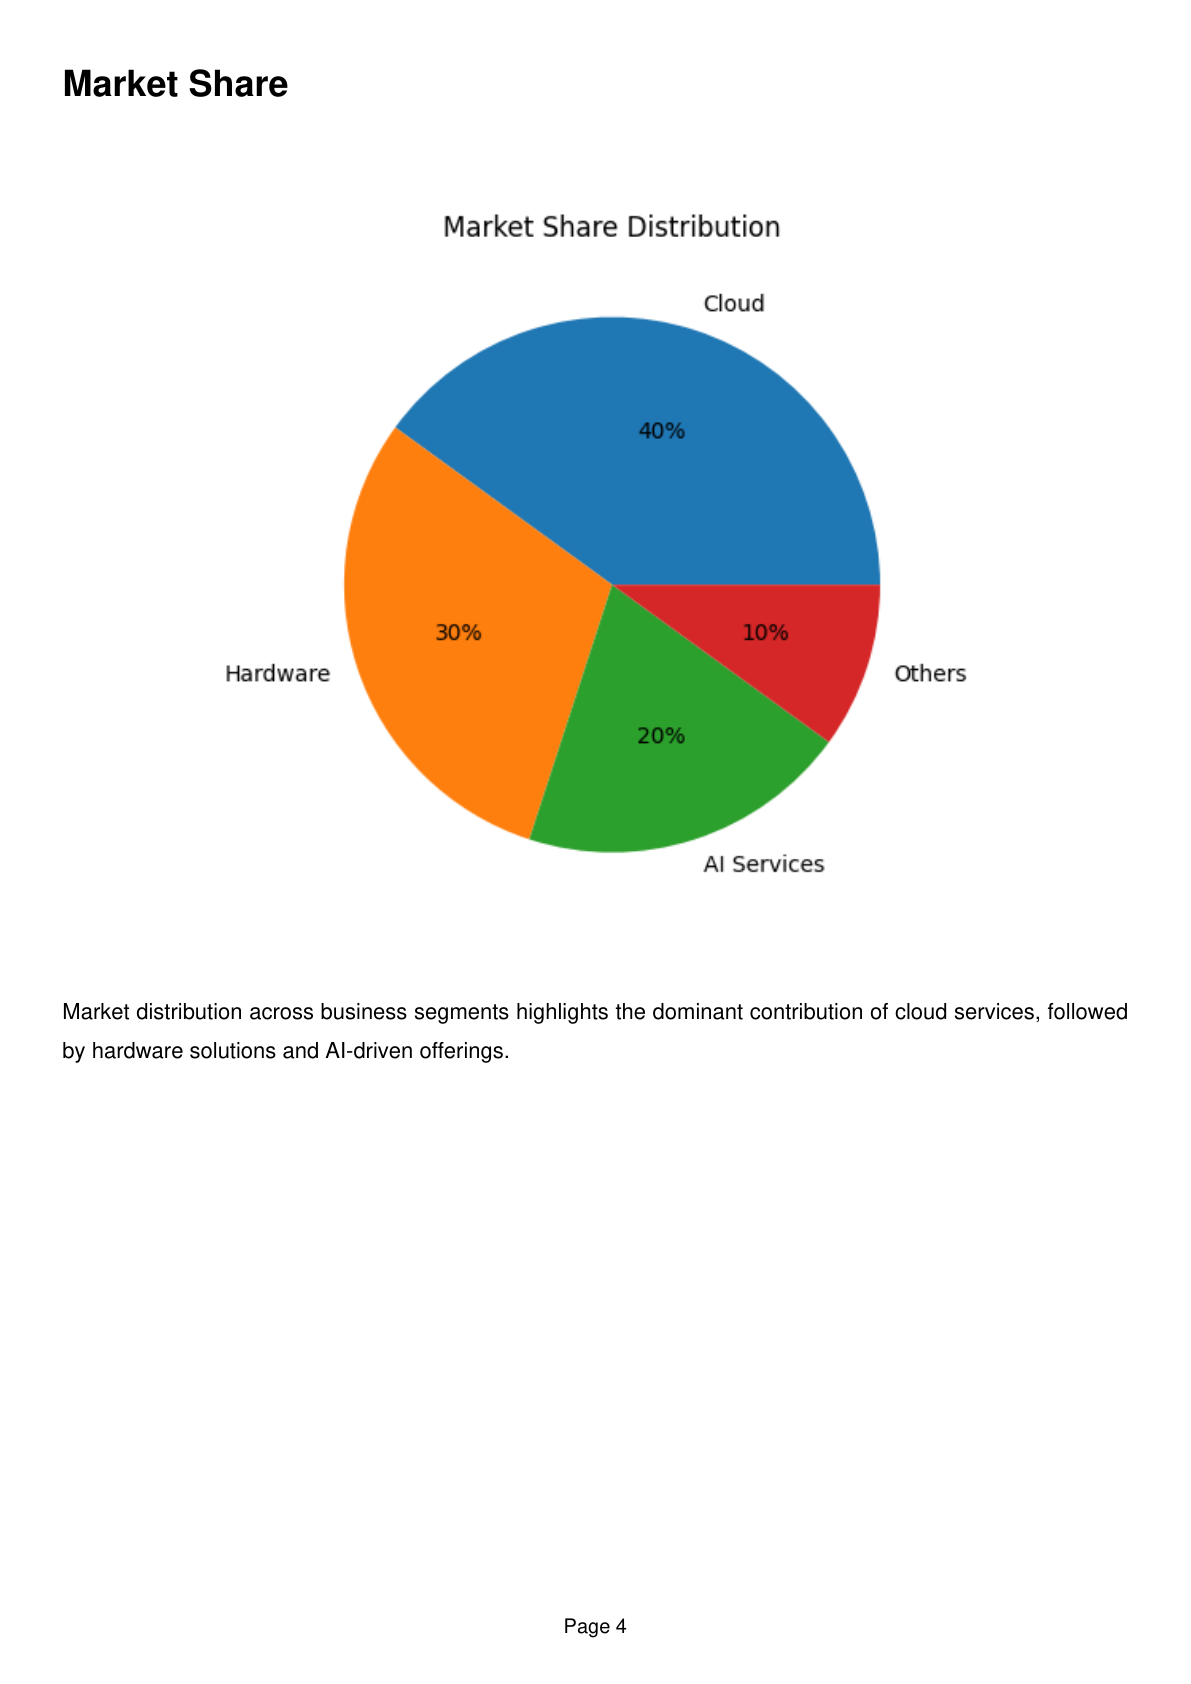
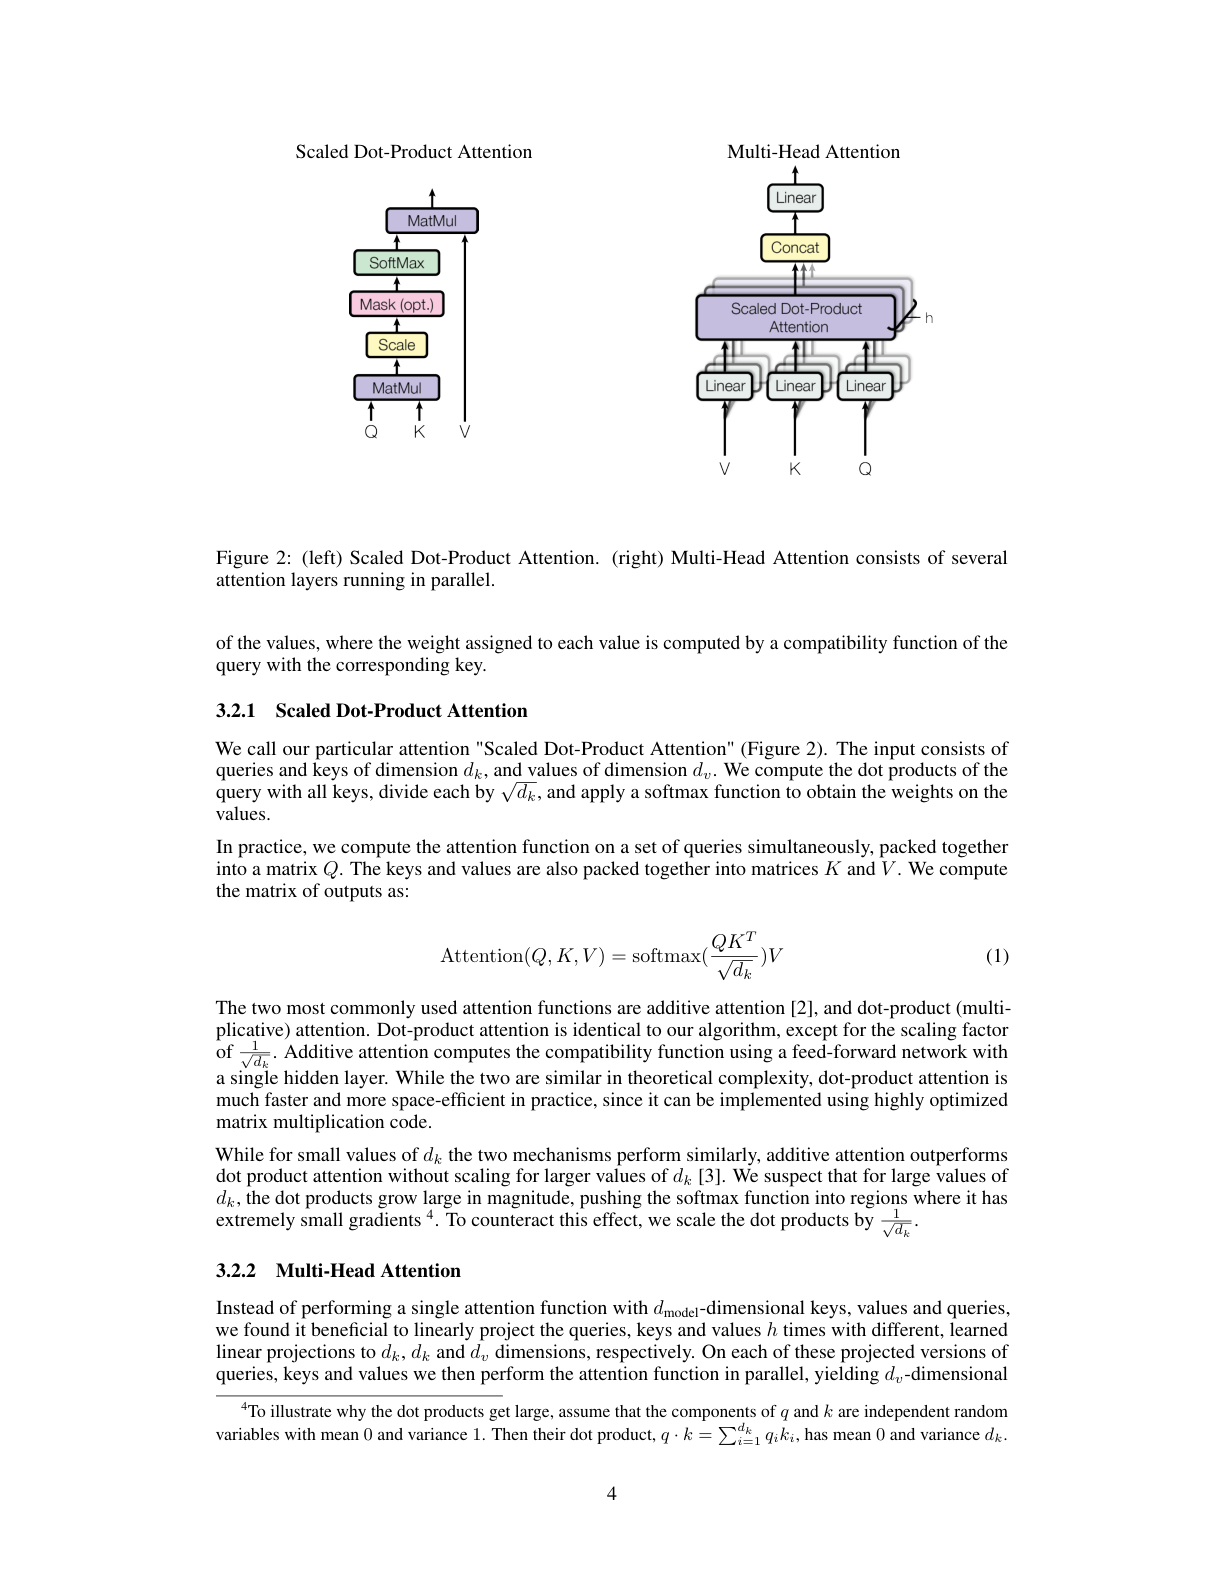
Refactor configuration for deployment

Changed region(s): [[0.0621, 0.0928, 0.932, 0.928], [0.0311, 0.0309, 0.2485, 0.0619], [0.466, 0.959, 0.5281, 0.9899]]

diff --git a/config.py b/config.py
@@ -1,10 +1,8 @@
-# ==========================================
-# File: config.py
-# ==========================================
-
-
 import os
 from pathlib import Path
+from dotenv import load_dotenv
+
+load_dotenv()
 
 
 class Config:
@@ -17,56 +15,96 @@ class Config:
     GROQ_API_KEY = os.getenv("GROQ_API_KEY")
 
     # ==========================
-    # Storage Paths
+    # Base Paths
     # ==========================
 
     BASE_DIR = Path(__file__).resolve().parent
 
-    UPLOAD_DIR = BASE_DIR / "uploads"
+    UPLOAD_DIR = Path(
+        os.getenv(
+            "UPLOAD_DIR",
+            str(BASE_DIR / "uploads")
+        )
+    )
 
-    TEMP_DIR = BASE_DIR / "temp"
+    TEMP_DIR = Path(
+        os.getenv(
+            "TEMP_DIR",
+            str(BASE_DIR / "temp")
+        )
+    )
 
-    DB_DIR = BASE_DIR / "db"
+    DB_DIR = Path(
+        os.getenv(
+            "DB_DIR",
+            str(BASE_DIR / "db")
+        )
+    )
 
-    CHROMA_DIR = DB_DIR / "chroma"
+    CHROMA_DIR = Path(
+        os.getenv(
+            "CHROMA_DIR",
+            str(DB_DIR / "chroma")
+        )
+    )
 
-    METADATA_FILE = DB_DIR / "metadata.json"
+    METADATA_FILE = Path(
+        os.getenv(
+            "METADATA_FILE",
+            str(DB_DIR / "metadata.json")
+        )
+    )
 
-    LOG_DIR = BASE_DIR / "logs"
+    LOG_DIR = Path(
+        os.getenv(
+            "LOG_DIR",
+            str(BASE_DIR / "logs")
+        )
+    )
 
     # ==========================
-    # Embedding Model
+    # Models
     # ==========================
 
-    EMBEDDING_MODEL = "gemini-embedding-2-preview"
+    EMBEDDING_MODEL = os.getenv(
+        "EMBEDDING_MODEL",
+        "gemini-embedding-2-preview"
+    )
 
-    # ==========================
-    # LLM Models
-    # ==========================
+    IMAGE_MODEL = os.getenv(
+        "IMAGE_MODEL",
+        "gemini-2.5-flash"
+    )
 
-    IMAGE_MODEL = "gemini-2.5-flash"
-
-    QA_MODEL = "llama-3.3-70b-versatile"
+    QA_MODEL = os.getenv(
+        "QA_MODEL",
+        "llama-3.3-70b-versatile"
+    )
 
     # ==========================
     # Chunking
     # ==========================
 
-    CHUNK_SIZE = 1000
+    CHUNK_SIZE = int(
+        os.getenv("CHUNK_SIZE", 1000)
+    )
 
-    CHUNK_OVERLAP = 150
+    CHUNK_OVERLAP = int(
+        os.getenv("CHUNK_OVERLAP", 150)
+    )
 
     @classmethod
     def validate(cls):
 
         required = {
             "GOOGLE_API_KEY": cls.GOOGLE_API_KEY,
-            "GROQ_API_KEY": cls.GROQ_API_KEY
+            "GROQ_API_KEY": cls.GROQ_API_KEY,
         }
 
         missing = [
-            k for k, v in required.items()
-            if not v
+            key
+            for key, value in required.items()
+            if not value
         ]
 
         if missing:

diff --git a/api/main.py b/api/main.py
@@ -1,17 +1,47 @@
-# ==========================================
-# File: api/main.py
-# ==========================================
-
-
+from pathlib import Path
 from dotenv import load_dotenv
+
 load_dotenv()
-from fastapi import (FastAPI)
-from api.routes import (router)
+
+from fastapi import FastAPI
+from api.routes import router
 from config import Config
 
 Config.validate()
 
-app = FastAPI(title="Document AI API",version="1.0.0")
+# Create required folders
+
+Path(
+    Config.UPLOAD_DIR
+).mkdir(
+    parents=True,
+    exist_ok=True
+)
+
+Path(
+    Config.TEMP_DIR
+).mkdir(
+    parents=True,
+    exist_ok=True
+)
+
+Path(
+    Config.CHROMA_DIR
+).mkdir(
+    parents=True,
+    exist_ok=True
+)
+
+Path(
+    Config.METADATA_FILE
+).parent.mkdir(
+    parents=True,
+    exist_ok=True
+)
+
+app = FastAPI(
+    title="Document AI API",
+    version="1.0.0"
+)
 
 app.include_router(router)
-

diff --git a/storage/vector_store.py b/storage/vector_store.py
@@ -12,8 +12,12 @@ from core.exceptions import (StorageError)
 
 logger = get_logger(__name__)
 
+
 class VectorStore:
+
     def __init__(self,persist_directory=None):
+
+        persist_directory = (persist_directory or Config.CHROMA_DIR)      
         if persist_directory is None:persist_directory = str(Config.CHROMA_DIR)
         try:
             embedding_service = (EmbeddingService())

diff --git a/storage/metadata_store.py b/storage/metadata_store.py
@@ -10,9 +10,11 @@ from core.exceptions import (StorageError)
 from config import Config
 logger = get_logger(__name__)
 
+
 class MetadataStore:
 
     def __init__(self,storage_path=None):
+        storage_path = (storage_path or Config.METADATA_FILE)
 
         if storage_path is None:
             storage_path = Config.METADATA_FILE